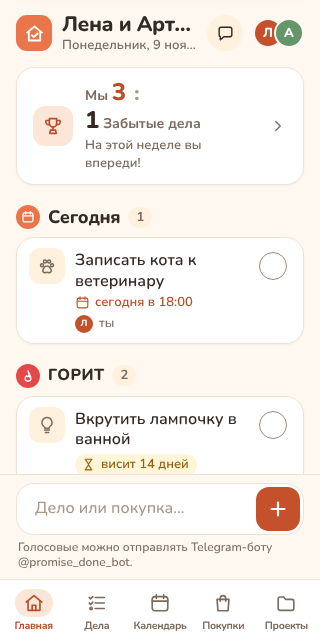
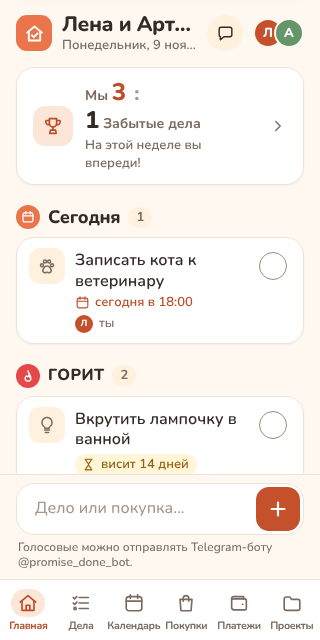
Платежи в нижнем таб-баре
Claude-Session: https://claude.ai/code/session_01K4WBGGq4fEqRaNC21ns6ax

Changed region(s): [[0.2188, 0.9062, 0.9688, 1.0], [0.0312, 0.9062, 0.1875, 1.0]]

diff --git a/DESIGN.md b/DESIGN.md
@@ -80,7 +80,7 @@ WCAG AA 4.5:1 (проверено для `--text-2` и `--danger-ink` на `--su
   Сделанное — `.done-row`: прозрачность .7, зачёркнутый заголовок.
 - **Кнопка** `.btn`: заливка `--brand-fill`, текст `--on-brand`, 800 14px, радиус `--r-m`, высота
   от 44px. Вторичная `.btn.ghost` — `--surface-2` + `--text`. Одна основная кнопка на экран.
-- **Вкладки** `.tabs`: нижний таб-бар (после поля ввода, с отступом safe-area), прячется при наборе текста на телефоне; вторичное (сезон, политика, выход, удаление) — в меню аватарки. Было: подложка `--surface-2`, активная — `--surface` + `--shadow-1`,
+- **Вкладки** `.tabs`: нижний таб-бар (после поля ввода, с отступом safe-area), прячется при наборе текста на телефоне; вторичное (сезон, политика, выход, удаление) — в меню аватарки. Шесть вкладок, «Платежи» открывает Дела с фильтром платежей. Было: подложка `--surface-2`, активная — `--surface` + `--shadow-1`,
   `aria-selected`. Минимальная высота 48px.
 - **Чипы счёта** `.chip`: `.family` (success), `.chaos` (warning), `.draw` (нейтральный).
 - **Ачивка** `.ach > div`: иконка и три кружка-медали справа (пустой — рамка `--control`, полученный — заливка
